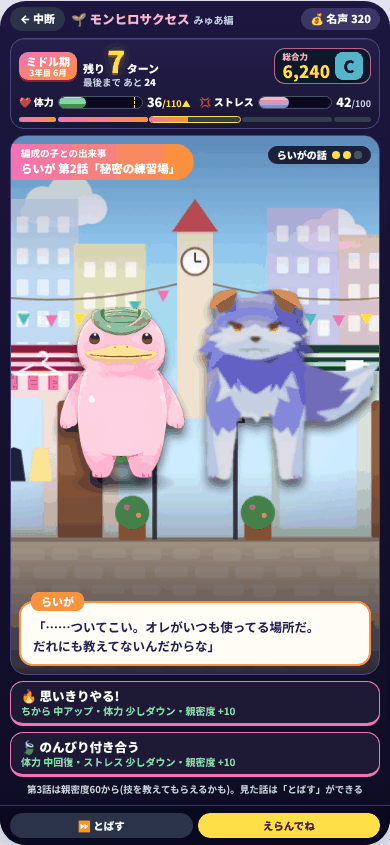
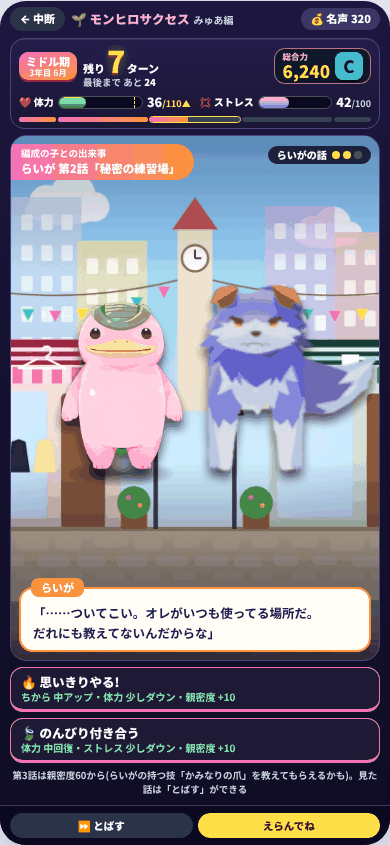
モンヒロサクセス: 止め絵に社長の答えの追加を入れた(景色は季節と時間で替わる・技の伝授は編成の子の技)
README に答えを書き、連続イベント(K4)の文を合わせた。修行の2コマは答えの形のまま。docs だけ

Claude-Session: https://claude.ai/code/session_0113GBaD7KNmq1K8moMQtAR4

Changed region(s): [[0.0308, 0.2154, 0.9846, 0.6462], [0.0, 0.6769, 0.9846, 0.9538], [0.6769, 0.0923, 0.7385, 0.1231]]

diff --git a/docs/progress/player-raise/mock/README.md b/docs/progress/player-raise/mock/README.md
@@ -39,9 +39,12 @@
 - イッサ博士の成功の率は **点4つ** で見せる
 - 編成の6体の列は **いつも出す**
 - ごはんは **大会のあとのごほうび** であげる(メインのボタンにもターンのはじめにも置かない)→ C3 を足した
+- 景色は **季節と時間で替わる**(見本は昼のまま)
+- 修行は参考と同じ形(2段で能力2つ・最後に技を覚えるくじ・失敗で次の率アップ)→ Q1・Q2 はこの形
+- 編成の子の連続イベントの技の伝授は **その編成の子が持つ技** を教わる → K4 の文を合わせた
 - 参考動画の3本目(修行とアイテム)から: メインのボタンを2段に並べ直し、持ち物の袋と能力ポイントの数字を足し、修行の2コマ(Q1・Q2)を足した
 
-### 社長に聞いたこと(答えは上・景色の時間だけ未定)
+### 社長に聞いたこと(答えは上・全部決まった)
 
 1. **住む場所の景色の時間**(`png/v3-compare.png`)
    - **(推奨)季節と時間で替わる(春の昼・夏の夕方・冬の夜 など)。この見本は昼**: 画面が明るく、前の夜だけの見本より「遊びたくなる」。まわりの帯とボタンは暗い紺のまま
